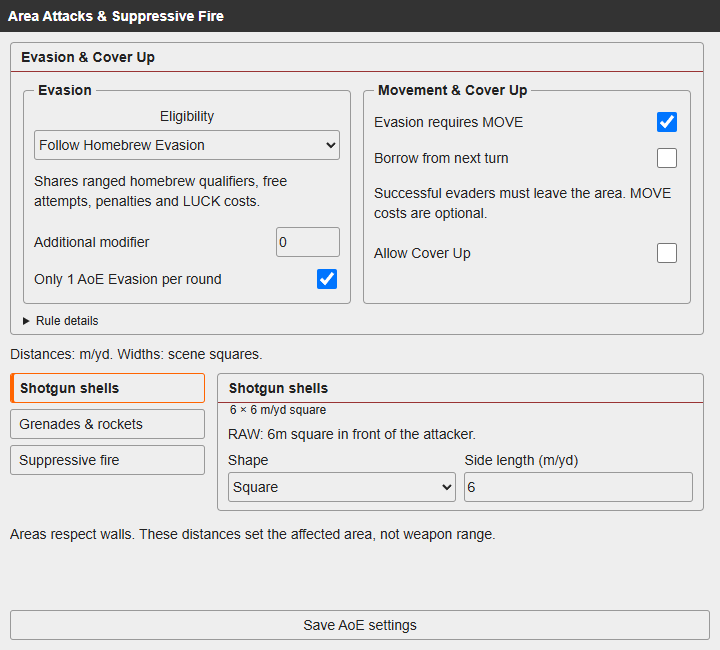
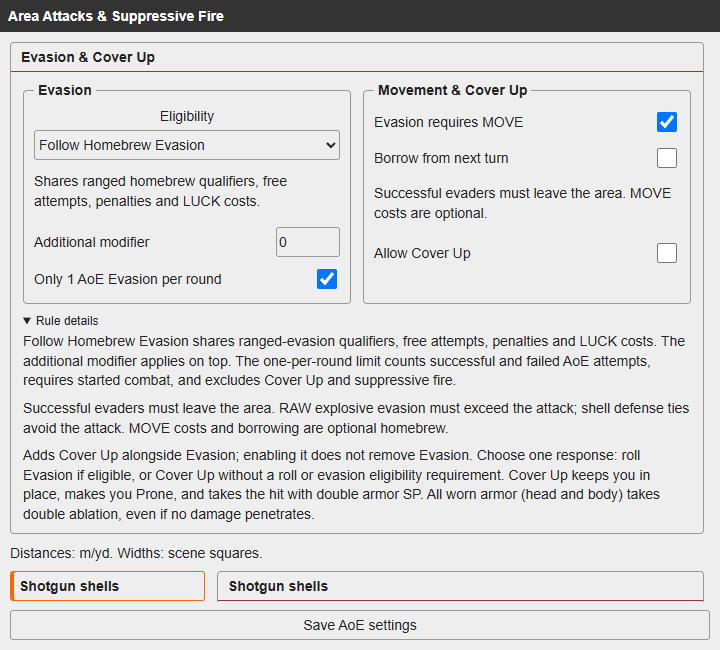
Release v0.9.39: prevent AoE settings controls from overlapping

diff --git a/src/styles/pneuma-combattools.css b/src/styles/pneuma-combattools.css
@@ -486,7 +486,7 @@ button[data-key="pneuma-combattools.configureEvasion"]:disabled {
 .pneuma-area-profile-body { padding: 0 10px 8px; }
 .pneuma-area-rules > :not(h3) { margin-left: 12px; margin-right: 12px; }
 .pneuma-area-rule-fields { display: grid; grid-template-columns: repeat(2, minmax(0, 1fr)); gap: 12px; padding: 10px 0; }
-.pneuma-area-rule-column { display: flex; flex-direction: column; gap: 8px; min-width: 0; margin: 0; padding: 10px; border: 1px solid var(--color-border-light-primary, #999); border-radius: 4px; }
+.pneuma-area-rule-column { display: grid; grid-template-columns: minmax(0, 1fr); align-content: start; gap: 8px; min-width: 0; margin: 0; padding: 10px; border: 1px solid var(--color-border-light-primary, #999); border-radius: 4px; }
 .pneuma-area-rule-column legend { padding: 0 4px; font-weight: bold; }
 .pneuma-area-rules .pneuma-area-eligibility { flex-direction: column; align-items: stretch; gap: 4px; }
 .pneuma-area-rules .pneuma-area-eligibility label { text-align: left; }

diff --git a/BACKLOG.md b/BACKLOG.md
@@ -723,3 +723,5 @@ Normal-attack saved injury results now nest directly beneath the matching token 
 ## AoE evasion follow-up (v0.9.38)
 
 Implemented the requested grouped layout, RAW Co-Processor eligibility, Follow Homebrew Evasion, Anyone / No one modes, and independent one-AoE-evasion-per-round checkbox. Homebrew shares ranged allowances, penalties and LUCK costs. Completed attempts count regardless of success; Cover Up and Concentration remain separate. Automated functional and focused form checks passed. Live Foundry verification pending; the broader browser suite retains its previously documented resistance-popup assertion.
+
+AoE layout follow-up (v0.9.39): reproduced Cover Up overlapping expanded Rule details with native form-note flex sizing. Changed rule-panel layout from vertical flex to grid and added panel-containment browser checks at 720, 900 and 1100px.

diff --git a/IMPLEMENTED_FEATURES.md b/IMPLEMENTED_FEATURES.md
@@ -748,3 +748,5 @@ The ordinary and shared area damage editors include Halve Armor beside Always Ab
 - Optional one AoE evasion per round counts completed rolls, successful or failed; cancelling a dialog, Cover Up and suppressive-fire Concentration do not count. Requires started combat when enabled. Round advance renews availability; resetting combat clears counters.
 - Additional AoE modifier stacks with the shared homebrew modifier. Mandatory and bonus LUCK are charged once on response commit. Pending cards refresh as usage changes.
 - Automated functional checks and browser form checks passed; live Foundry/theme verification pending.
+
+AoE layout correction (v0.9.39): rule panels use grid layout so native form-note flex sizing cannot push Cover Up outside its panel. Browser regression covers expanded Rule details at three widths; live Foundry verification pending.

diff --git a/CHANGELOG.md b/CHANGELOG.md
@@ -1,5 +1,12 @@
 # Changelog
 
+## 0.9.39 - 2026-11-15
+
+- Fix Allow Cover Up overflowing its settings panel and overlapping expanded Rule details. Grid layout prevents native form-note flex sizing from stretching the panel contents.
+- Add browser regression checks for panel containment at 720, 900 and 1100px.
+
+Validation: reproduced the overlap before the fix; focused browser checks and build pass after the fix. Live Foundry verification remains pending.
+
 ## 0.9.38 - 2026-11-15
 
 - Group AoE evasion and movement controls with a wider eligibility dropdown.

diff --git a/README.md b/README.md
@@ -1,6 +1,6 @@
 # Pneuma's Combat Tools
 
-Combat workflows for **Foundry VTT v12** and **Cyberpunk RED Core**. Current release: **0.9.38**. Requires **libWrapper** and an active GM for coordinated workflows.
+Combat workflows for **Foundry VTT v12** and **Cyberpunk RED Core**. Current release: **0.9.39**. Requires **libWrapper** and an active GM for coordinated workflows.
 
 ## Features
 
